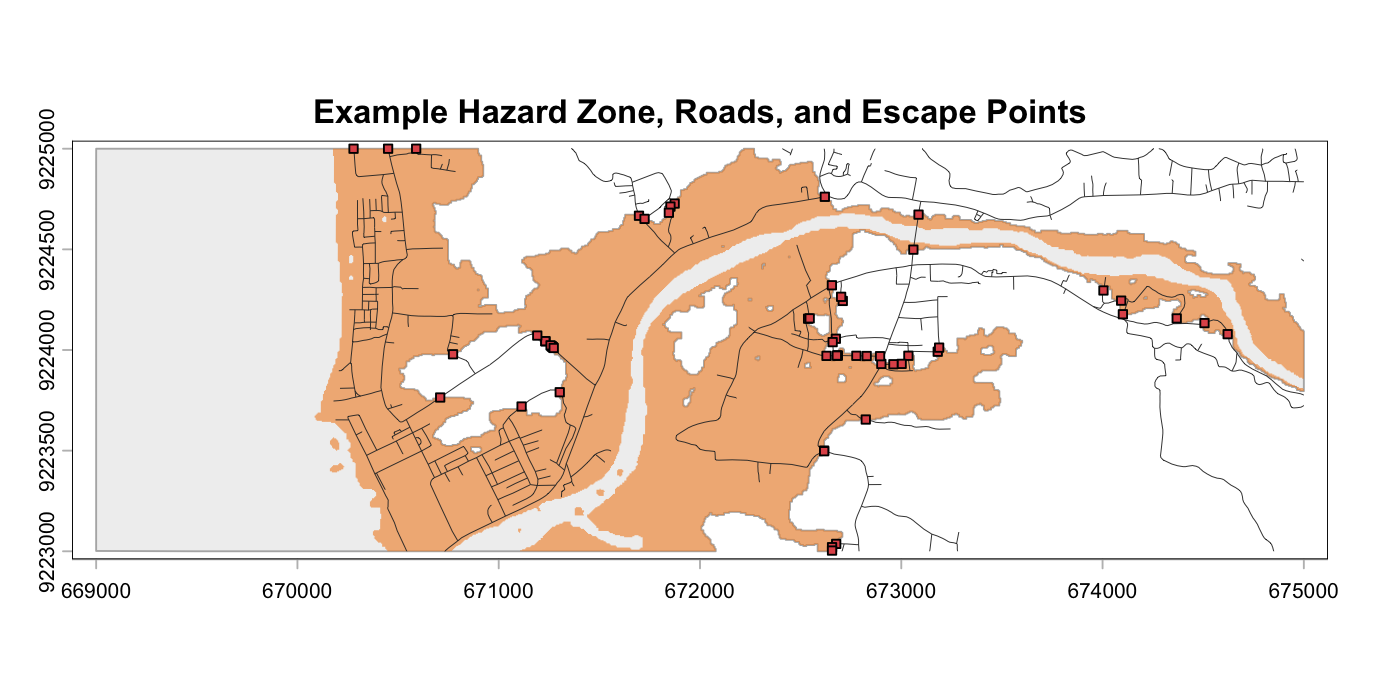
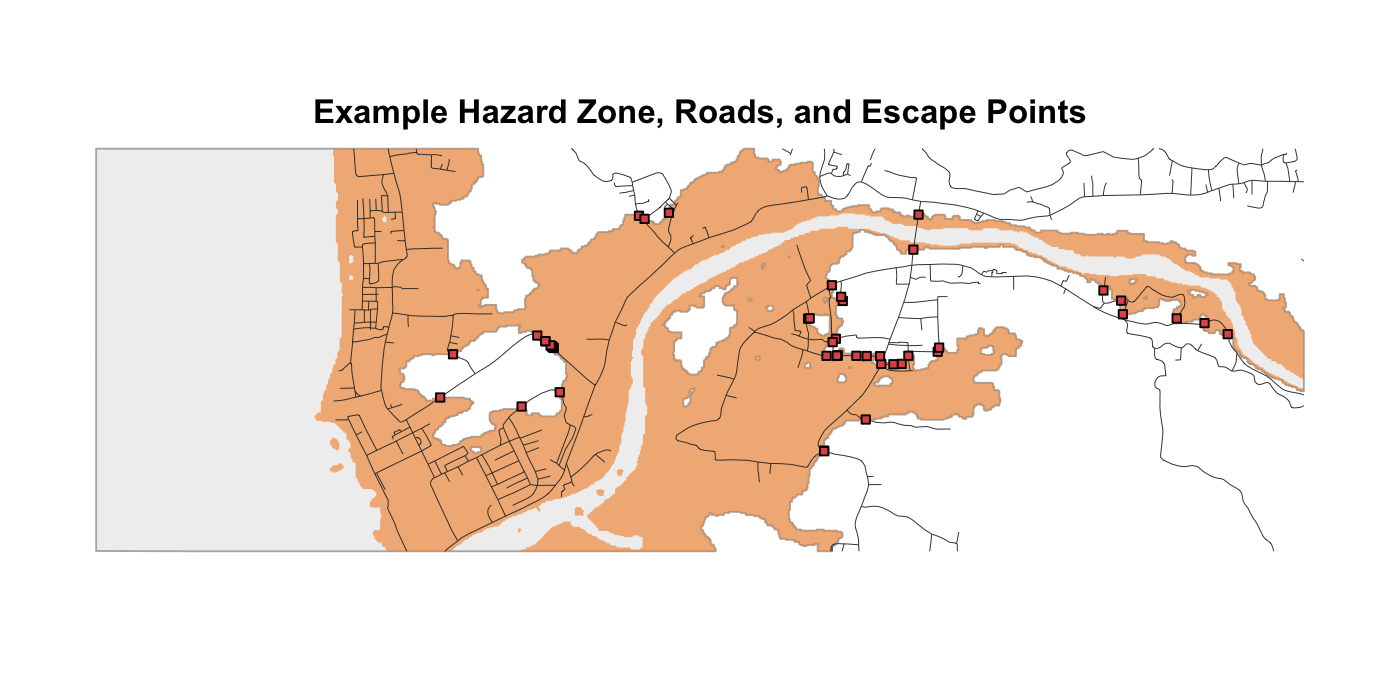
update

diff --git a/README.md b/README.md
@@ -1,4 +1,4 @@
-# evacpath
+# evacpath <img src="man/figures/logo.png" align="right" height="140" alt="evacpath logo" />
 
 `evacpath` is an R package for road-constrained pedestrian evacuation modeling using least-cost path analysis. It takes generic hazard, road/pathway, and elevation inputs, then returns distance-to-safety and evacuation-time outputs for any projected study area.
 
